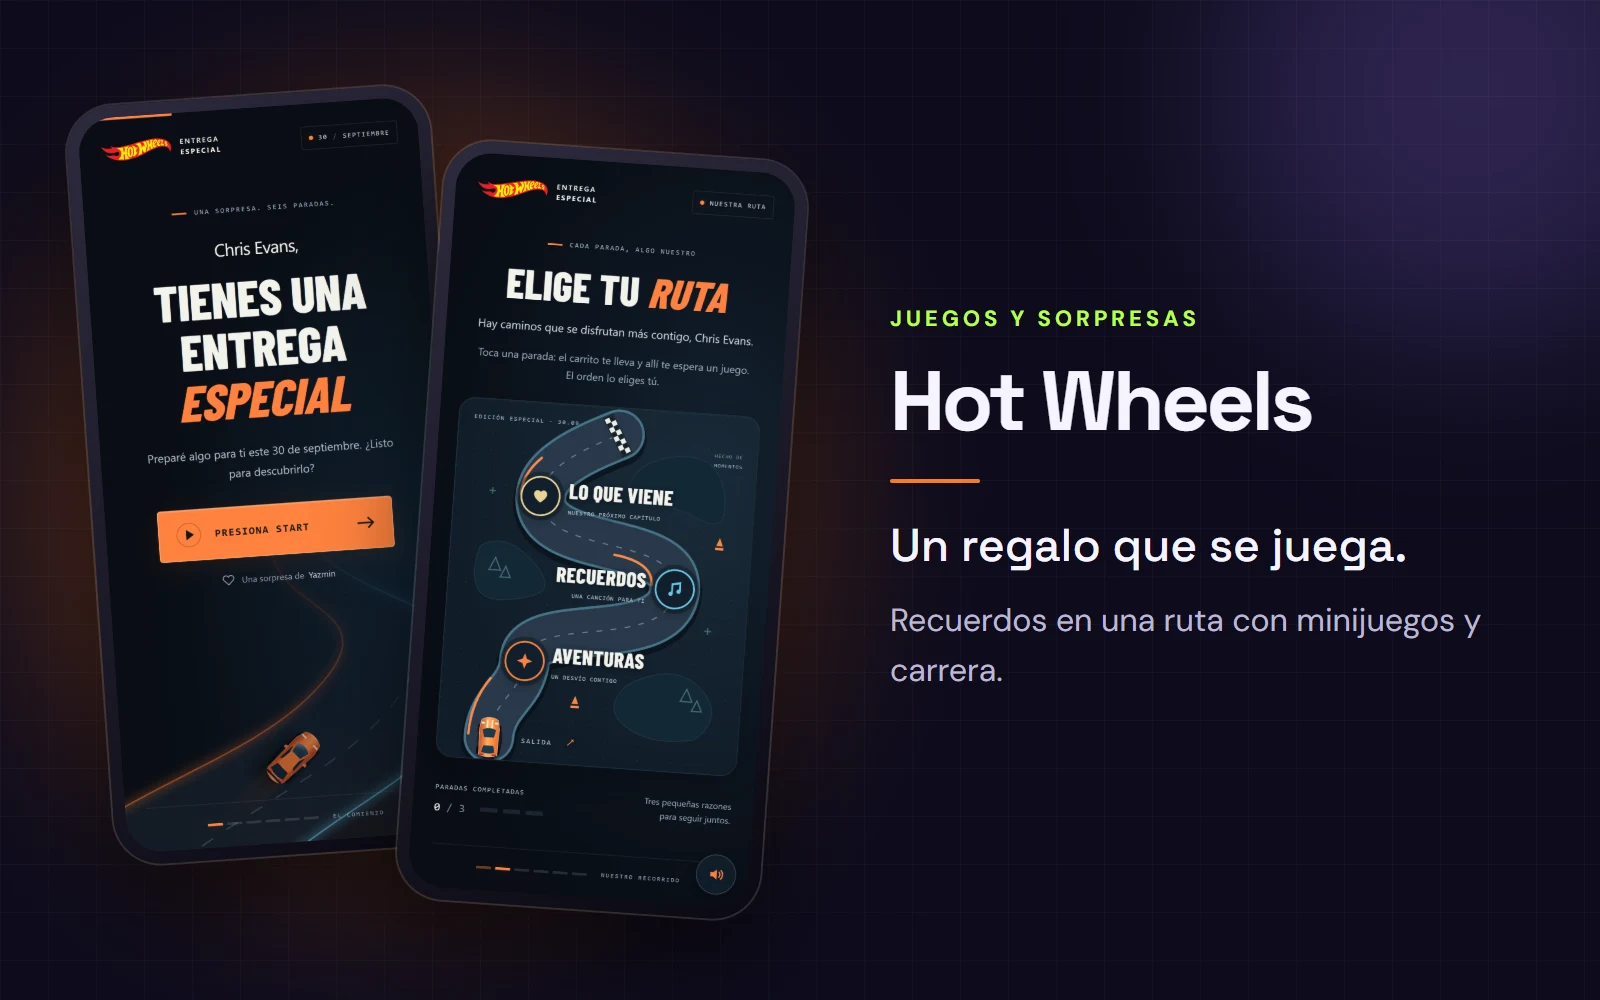
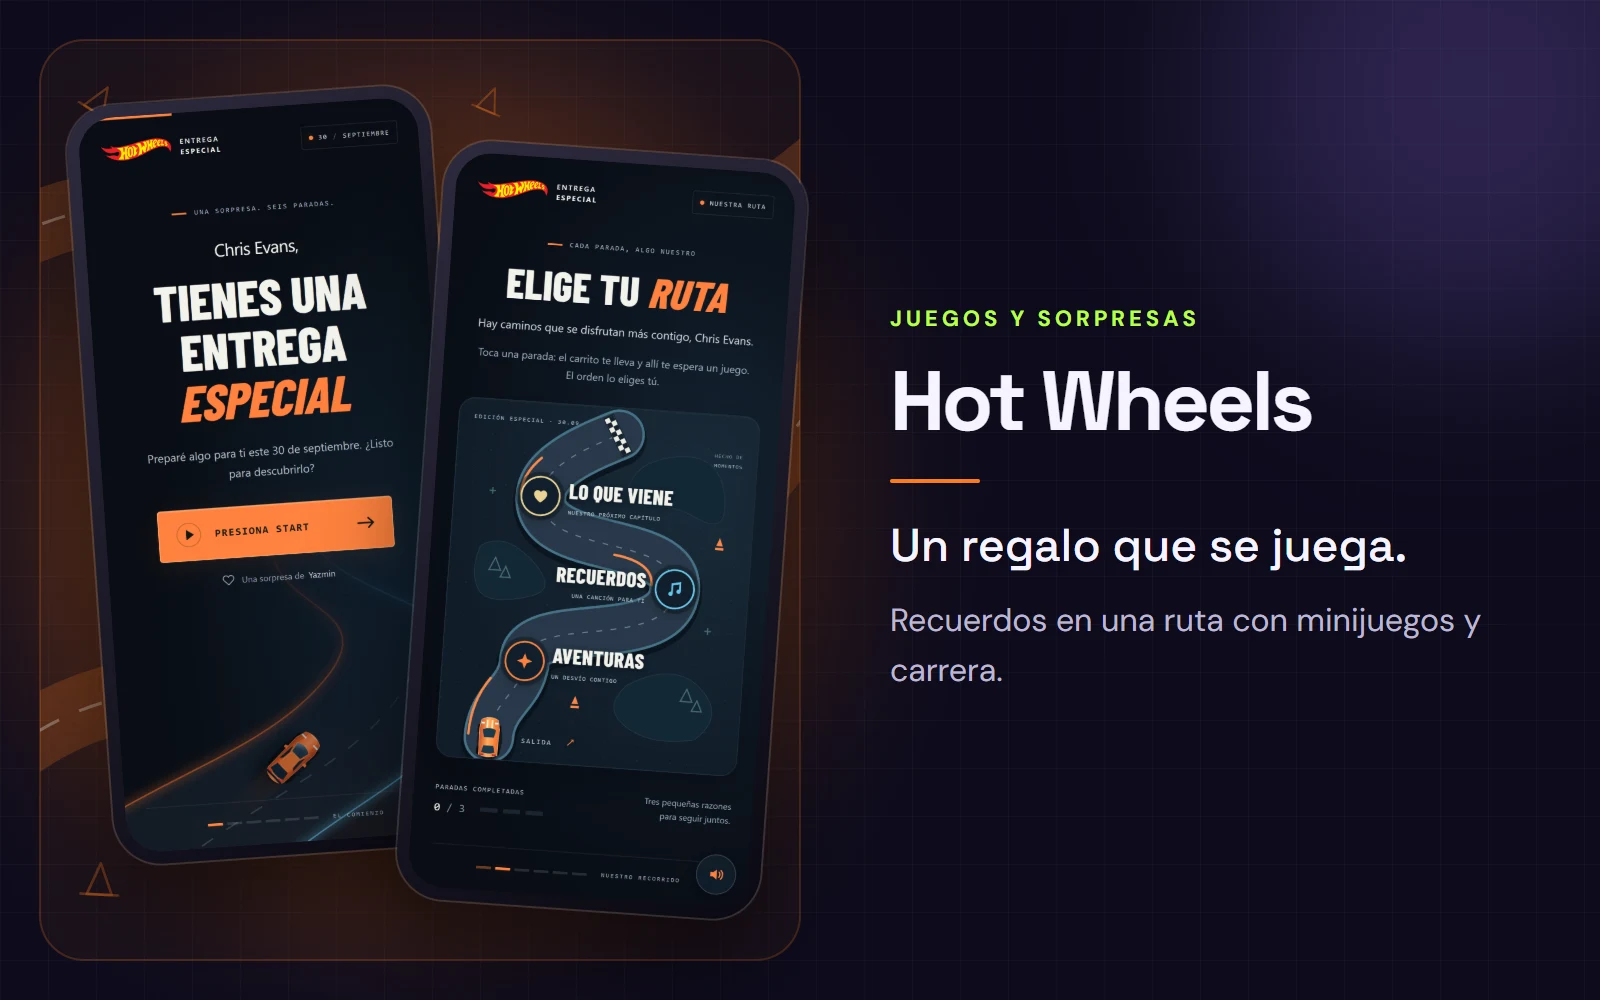
Add minimalist themed backdrop behind the phones in each showcase

diff --git a/experiencias-digitales.html b/experiencias-digitales.html
@@ -36,8 +36,8 @@
           <h3 class="experience-feature-title" id="project-flores-amarillas">Flores Amarillas</h3>
           <a class="experience-feature-shot" href="flores-amarillas-estefania/" target="_blank" rel="noopener noreferrer" aria-label="Ver experiencia Flores Amarillas (abre en una pestaña nueva)">
             <picture>
-              <source media="(max-width: 639px)" srcset="img/experiencia-flores-amarillas-movil.webp?v=2" width="1080" height="1500">
-              <img src="img/experiencia-flores-amarillas.webp?v=2" alt="Flores Amarillas: dos pantallas en celular, el sobre de bienvenida para Estefanía y el ramo de girasoles. Un ramo que nunca se marchita, con fotos, su canción y mensajes." width="1600" height="1000" loading="lazy" decoding="async">
+              <source media="(max-width: 639px)" srcset="img/experiencia-flores-amarillas-movil.webp?v=3" width="1080" height="1500">
+              <img src="img/experiencia-flores-amarillas.webp?v=3" alt="Flores Amarillas: dos pantallas en celular, el sobre de bienvenida para Estefanía y el ramo de girasoles. Un ramo que nunca se marchita, con fotos, su canción y mensajes." width="1600" height="1000" loading="lazy" decoding="async">
             </picture>
           </a>
           <div class="experience-feature-actions">
@@ -49,8 +49,8 @@
           <h3 class="experience-feature-title" id="project-flores-para-ti">Flores para ti</h3>
           <a class="experience-feature-shot" href="flores-para-ti/" target="_blank" rel="noopener noreferrer" aria-label="Ver experiencia Flores para ti (abre en una pestaña nueva)">
             <picture>
-              <source media="(max-width: 639px)" srcset="img/experiencia-flores-para-ti-movil.webp?v=2" width="1080" height="1500">
-              <img src="img/experiencia-flores-para-ti.webp?v=2" alt="Flores para ti: dos pantallas en celular, el jardín de sobres y una carta abierta. Todo lo que quieres decirle: cada sobre guarda una carta con audio." width="1600" height="1000" loading="lazy" decoding="async">
+              <source media="(max-width: 639px)" srcset="img/experiencia-flores-para-ti-movil.webp?v=3" width="1080" height="1500">
+              <img src="img/experiencia-flores-para-ti.webp?v=3" alt="Flores para ti: dos pantallas en celular, el jardín de sobres y una carta abierta. Todo lo que quieres decirle: cada sobre guarda una carta con audio." width="1600" height="1000" loading="lazy" decoding="async">
             </picture>
           </a>
           <div class="experience-feature-actions">
@@ -62,8 +62,8 @@
           <h3 class="experience-feature-title" id="project-hot-wheels">Hot Wheels</h3>
           <a class="experience-feature-shot" href="hot-wheels/" target="_blank" rel="noopener noreferrer" aria-label="Ver experiencia Hot Wheels (abre en una pestaña nueva)">
             <picture>
-              <source media="(max-width: 639px)" srcset="img/experiencia-hot-wheels-movil.webp?v=2" width="1080" height="1500">
-              <img src="img/experiencia-hot-wheels.webp?v=2" alt="Hot Wheels: dos pantallas en celular, la bienvenida de la entrega especial y el mapa para elegir la ruta. Un regalo que se juega: recuerdos en una ruta con minijuegos y carrera." width="1600" height="1000" loading="lazy" decoding="async">
+              <source media="(max-width: 639px)" srcset="img/experiencia-hot-wheels-movil.webp?v=3" width="1080" height="1500">
+              <img src="img/experiencia-hot-wheels.webp?v=3" alt="Hot Wheels: dos pantallas en celular, la bienvenida de la entrega especial y el mapa para elegir la ruta. Un regalo que se juega: recuerdos en una ruta con minijuegos y carrera." width="1600" height="1000" loading="lazy" decoding="async">
             </picture>
           </a>
           <div class="experience-feature-actions">
@@ -75,8 +75,8 @@
           <h3 class="experience-feature-title" id="project-dia-del-novio">Día del Novio</h3>
           <a class="experience-feature-shot" href="https://dia-del-novio.rotfstudio.com/bienvenida/dist/" target="_blank" rel="noopener noreferrer" aria-label="Ver experiencia Día del Novio (abre en una pestaña nueva)">
             <picture>
-              <source media="(max-width: 639px)" srcset="img/experiencia-dia-del-novio-movil.webp?v=2" width="1080" height="1500">
-              <img src="img/experiencia-dia-del-novio.webp?v=2" alt="Día del Novio: dos pantallas en celular, la bienvenida con foto de la pareja y el capítulo de la fecha en que todo empezó. Su historia, capítulo a capítulo, con fotos y sorpresas que se revelan al tocar." width="1600" height="1000" loading="lazy" decoding="async">
+              <source media="(max-width: 639px)" srcset="img/experiencia-dia-del-novio-movil.webp?v=3" width="1080" height="1500">
+              <img src="img/experiencia-dia-del-novio.webp?v=3" alt="Día del Novio: dos pantallas en celular, la bienvenida con foto de la pareja y el capítulo de la fecha en que todo empezó. Su historia, capítulo a capítulo, con fotos y sorpresas que se revelan al tocar." width="1600" height="1000" loading="lazy" decoding="async">
             </picture>
           </a>
           <div class="experience-feature-actions">
